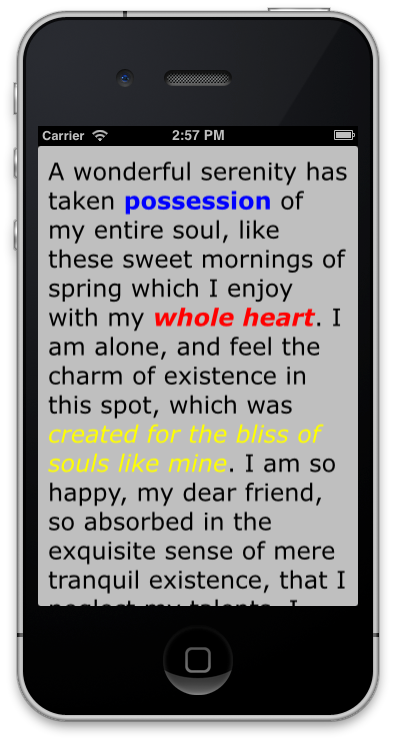
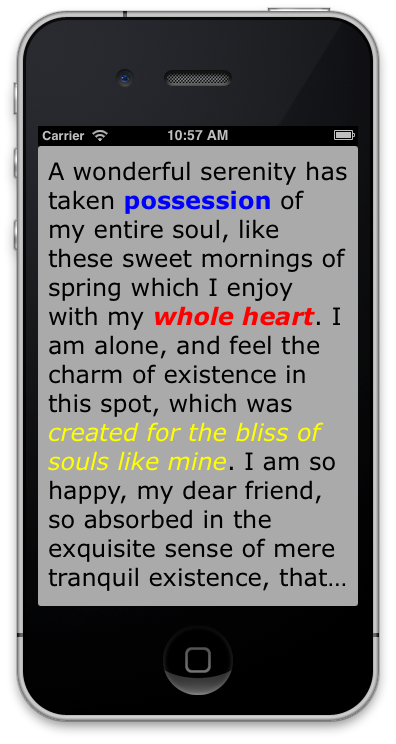
"numberOfLines" and "truncation" (NSLineBreakByTruncatingTail) is now supported

Changed region(s): [[0.1212, 0.2164, 0.8788, 0.8347], [0.4242, 0.1546, 0.5758, 0.1855], [0.8182, 0.3401, 0.8788, 0.371]]

diff --git a/CoreTextLabel.m b/CoreTextLabel.m
@@ -22,8 +22,11 @@
 //
 
 #import "CoreTextLabel.h"
-#import "RegexKitLite.h"
 
+#import <QuartzCore/QuartzCore.h>
+#import <CoreText/CoreText.h>
+
+#import "RegexKitLite.h"
 
 #define CORE_TEXT_SUPPORTED() ([[[UIDevice currentDevice] systemVersion] floatValue] >= 3.2)
 
@@ -37,16 +40,18 @@
 
 @implementation CoreTextLabel
 
+@synthesize string              = _string;
+
 @synthesize font                = _font;
 @synthesize boldFont            = _boldFont;
 @synthesize italicFont          = _italicFont;
 @synthesize boldItalicFont      = _boldItalicFont;
+
 @synthesize textColor           = _textColor;
 @synthesize boldTextColor       = _boldTextColor;
 @synthesize italicTextColor     = _italicTextColor;
 @synthesize boldItalicTextColor = _boldItalicTextColor;
-@synthesize attributedTextLayer = _attributedTextLayer;
-@synthesize attributedString    = _attributedString;
+
 @synthesize defaultFontSize     = _defaultFontSize;
 
 - (id) initWithFrame:(CGRect)frame
@@ -60,25 +65,9 @@
     
 	if (self)
 	{
+        [self setContentMode:UIViewContentModeRedraw];
 		self.backgroundColor = [UIColor clearColor];
-        
-        _defaultFontSize                   = 18.f;
-		_attributedTextLayer               = [CATextLayer new];
-		_attributedTextLayer.frame         = self.bounds;
-		_attributedTextLayer.contentsScale = [[UIScreen mainScreen] scale];
-        
-		[self.layer addSublayer:_attributedTextLayer];
-        
-        self.layer.actions = [[NSMutableDictionary alloc] initWithObjectsAndKeys:
-                              [NSNull null], @"onOrderIn",
-                              [NSNull null], @"onOrderOut",
-                              [NSNull null], @"sublayers",
-                              [NSNull null], @"contents",
-                              [NSNull null], @"bounds",
-                              [NSNull null], @"position",
-                              nil];
-        
-        _attributedTextLayer.actions = self.layer.actions;
+        _defaultFontSize     = 18.f;
 	}
     
 	return self;
@@ -167,57 +156,109 @@
     return _boldItalicTextColor;
 }
 
-#pragma mark - Setter
-
-- (void) setAttributedString:(NSMutableAttributedString *)attributedString
-{
-	_attributedString           = attributedString;
-    _attributedTextLayer.string = _attributedString;
-	[self setNeedsLayout];
-}
-
 #pragma mark - Layout
-
-- (CGSize)suggestSizeAndFitRange:(CFRange *)range forAttributedString:(NSMutableAttributedString *)attrString usingSize:(CGSize)referenceSize
-{
-    CTFramesetterRef framesetter   = CTFramesetterCreateWithAttributedString((__bridge CFAttributedStringRef)attrString);
-    CGSize           suggestedSize = CTFramesetterSuggestFrameSizeWithConstraints(framesetter,
-                                                                                  CFRangeMake(0, [attrString length]),
-                                                                                  NULL,
-                                                                                  referenceSize,
-                                                                                  range);
-    
-    // HACK: There is a bug in Core Text where suggested size is not quite right
-    // I'm padding it with half line height to make up for the bug.
-    // see the coretext-dev list: http://web.archiveorange.com/archive/v/nagQXwVJ6Gzix0veMh09
-    CTLineRef line = CTLineCreateWithAttributedString((__bridge CFAttributedStringRef)attrString);
-    CGFloat ascent, descent, leading;
-    CTLineGetTypographicBounds(line, &ascent, &descent, &leading);
-    CGFloat lineHeight = ascent + descent + leading;
-    suggestedSize.height += lineHeight / 2.f;
-    
-    return suggestedSize;
-}
-
-- (void) layoutSubviews
-{
-    [super layoutSubviews];
-    _attributedTextLayer.frame   = self.bounds;
-    _attributedTextLayer.wrapped = YES;
-}
 
 - (void) sizeToFit
 {
-    CFRange fitRange;
-    CGRect  textDisplayRect = CGRectMake(0, 0, self.bounds.size.width, 99999);
-    CGSize  recommendedSize = [self suggestSizeAndFitRange:&fitRange
-                                       forAttributedString:_attributedString
-                                                 usingSize:textDisplayRect.size];
+    self.frame = CGRectMake(self.frame.origin.x, self.frame.origin.y, self.frame.size.width, 9000);
     
-    self.frame = CGRectMake(self.frame.origin.x, self.frame.origin.y, self.frame.size.width, recommendedSize.height);
+    CTFramesetterRef framesetter     = CTFramesetterCreateWithAttributedString((__bridge CFAttributedStringRef)self.string);
+    CFRange          fullStringRange = CFRangeMake(0, self.string.string.length);
     
-    _attributedTextLayer.frame   = self.bounds;
-    _attributedTextLayer.wrapped = YES;
+    CGMutablePathRef framePath = CGPathCreateMutable();
+    CGPathAddRect(framePath, nil, self.bounds);
+    CTFrameRef aFrame = CTFramesetterCreateFrame(framesetter, fullStringRange, framePath, NULL);
+    
+    CFArrayRef lines = CTFrameGetLines(aFrame);
+    CFIndex    count = CFArrayGetCount(lines);
+    
+    // Limit lines if self.numberOfLines != 0
+    if (self.numberOfLines != 0 && count > self.numberOfLines)
+    {
+        count = self.numberOfLines;
+    }
+    
+    CGPoint origins[count];
+    CTFrameGetLineOrigins(aFrame, CFRangeMake(0, count), origins);
+    
+    CGFloat ascent, descent, leading, width;
+    CTLineRef line = (CTLineRef) CFArrayGetValueAtIndex(lines, count-1);
+    width = CTLineGetTypographicBounds(line, &ascent,  &descent, &leading);
+    
+    self.frame = CGRectMake(self.frame.origin.x, self.frame.origin.y, self.frame.size.width, ceilf(self.bounds.size.height - origins[count-1].y + descent));
+}
+
+- (void) drawRect:(CGRect)rect
+{
+    [super drawRect:rect];
+    
+    // Fetch the context
+	CGContextRef context = UIGraphicsGetCurrentContext();
+    
+	// Flip the coordinate system
+	CGContextSetTextMatrix(context, CGAffineTransformIdentity);
+	CGContextTranslateCTM(context, 0, self.bounds.size.height);
+	CGContextScaleCTM(context, 1.0, -1.0);
+    
+    CTFramesetterRef framesetter = CTFramesetterCreateWithAttributedString((__bridge CFAttributedStringRef)self.string);
+    CFRange fullStringRange = CFRangeMake(0, self.string.string.length);
+    
+    CGMutablePathRef framePath = CGPathCreateMutable();
+    CGPathAddRect(framePath, nil, rect);
+    CTFrameRef aFrame = CTFramesetterCreateFrame(framesetter, fullStringRange, framePath, NULL);
+    
+    CFArrayRef lines = CTFrameGetLines(aFrame);
+    CFIndex    count = CFArrayGetCount(lines);
+    
+    // Limit lines if self.numberOfLines != 0
+    if (self.numberOfLines != 0 && count > self.numberOfLines)
+    {
+        count = self.numberOfLines;
+    }
+    
+    CGPoint origins[count];
+    CTFrameGetLineOrigins(aFrame, CFRangeMake(0, count), origins); // Fill origins[] buffer.
+    
+    // Draw every line but the last one
+    for (CFIndex i = 0; i < count-1; i++)
+    {
+        CGContextSetTextPosition(context, origins[i].x, origins[i].y);
+        CTLineRef line = (CTLineRef)CFArrayGetValueAtIndex(lines, i);
+        CTLineDraw(line, context);
+    }
+    
+    // Truncate the last line before drawing it
+    CGPoint lastOrigin = origins[count-1];
+    CTLineRef lastLine = CFArrayGetValueAtIndex(lines, count-1);
+    
+    // Truncation token is a CTLineRef itself
+    NSRange effectiveRange = NSMakeRange(0, 0);
+    CFAttributedStringRef truncationString = CFAttributedStringCreate(NULL, CFSTR("\u2026"), (__bridge CFDictionaryRef)([self.string attributesAtIndex:0 effectiveRange:&effectiveRange]));
+    CTLineRef truncationToken = CTLineCreateWithAttributedString(truncationString);
+    CFRelease(truncationString);
+    
+    // Range to cover everything from the start of lastLine to the end of the string
+    CFRange rng = CFRangeMake(CTLineGetStringRange(lastLine).location, 0);
+    rng.length = CFAttributedStringGetLength((__bridge CFAttributedStringRef)self.string) - rng.location;
+    
+    // Substring with that range
+    NSAttributedString * longString = [self.string attributedSubstringFromRange:NSMakeRange(rng.location, rng.length)];
+    
+    // Line for that string
+    CTLineRef longLine = CTLineCreateWithAttributedString((__bridge CFAttributedStringRef)longString);
+    
+    CTLineRef truncated = CTLineCreateTruncatedLine(longLine, rect.size.width, kCTLineTruncationEnd, truncationToken);
+    CFRelease(longLine);
+    CFRelease(truncationToken);
+    
+    // If 'truncated' is NULL, then no truncation was required to fit it
+    if (truncated == NULL)
+        truncated = (CTLineRef)CFRetain(lastLine);
+    
+    // Draw new line at the same offset as the non-truncated version
+    CGContextSetTextPosition(context, lastOrigin.x, lastOrigin.y);
+    CTLineDraw(truncated, context);
+    CFRelease(truncated);
 }
 
 #pragma mark - HTML

diff --git a/Sample/CoreTextLabelSample/CoreTextLabelSample/AFViewController.m b/Sample/CoreTextLabelSample/CoreTextLabelSample/AFViewController.m
@@ -26,49 +26,58 @@
 
 @interface AFViewController ()
 
+@property (nonatomic, retain) CoreTextLabel * label;
+
 @end
 
 @implementation AFViewController
 
-- (void) loadView
-{
-    [super loadView];
-    
-    CGFloat padding = 10.f;
-    CGFloat width   = self.view.frame.size.width;
-    CGRect frame    = CGRectMake(padding, padding, width-padding*2.f, 800);
-    
-    UIFont   * regularFont         = [UIFont fontWithName:@"Verdana" size:24.f];
-    UIFont   * boldFont            = [UIFont fontWithName:@"Verdana-Bold" size:24.f];
-    UIFont   * italicFont          = [UIFont fontWithName:@"Verdana-Italic" size:24.f];
-    UIFont   * boldItalicFont      = [UIFont fontWithName:@"Verdana-BoldItalic" size:24.f];
-    
-    UIColor  * boldTextColor       = [UIColor blueColor];
-    UIColor  * boldItalicTextColor = [UIColor redColor];
-    UIColor  * italicTextColor     = [UIColor yellowColor];
-    
-    NSString * htmlPath            = [[NSBundle mainBundle] pathForResource:@"Sample" ofType:@"html"];
-    NSString * htmlString          = [NSString stringWithContentsOfFile:htmlPath
-                                                               encoding:NSUTF8StringEncoding
-                                                                  error:nil];
-    
-    CoreTextLabel * label     = [[CoreTextLabel alloc] initWithFrame:frame];
-    label.font                = regularFont;
-    label.boldFont            = boldFont;
-    label.italicFont          = italicFont;
-    label.boldItalicFont      = boldItalicFont;
-    label.boldTextColor       = boldTextColor;
-    label.boldItalicTextColor = boldItalicTextColor;
-    label.italicTextColor     = italicTextColor;
-    label.attributedString    = [label attributedStringByHTML:htmlString];
-    [label sizeToFit];
-    
-    [self.view addSubview:label];
-}
-
 - (void) viewWillAppear:(BOOL)animated
 {
     [super viewWillAppear:animated];
+    
+    self.view.backgroundColor = [UIColor lightGrayColor];
+    
+    if (!_label)
+    {
+        CGRect frame = CGRectMake(10, 10, self.view.frame.size.width-20, self.view.frame.size.height-20);
+        
+        UIFont   * regularFont         = [UIFont fontWithName:@"Verdana" size:24.f];
+        UIFont   * boldFont            = [UIFont fontWithName:@"Verdana-Bold" size:24.f];
+        UIFont   * italicFont          = [UIFont fontWithName:@"Verdana-Italic" size:24.f];
+        UIFont   * boldItalicFont      = [UIFont fontWithName:@"Verdana-BoldItalic" size:24.f];
+        
+        UIColor  * boldTextColor       = [UIColor blueColor];
+        UIColor  * boldItalicTextColor = [UIColor redColor];
+        UIColor  * italicTextColor     = [UIColor yellowColor];
+        
+        NSString * html                = [NSString stringWithContentsOfFile:[[NSBundle mainBundle] pathForResource:@"Sample" ofType:@"html"]
+                                                                   encoding:NSUTF8StringEncoding
+                                                                      error:nil];
+        
+        _label                     = [[CoreTextLabel alloc] initWithFrame:frame];
+        _label.autoresizingMask    = UIViewAutoresizingFlexibleWidth | UIViewAutoresizingFlexibleHeight | UIViewAutoresizingFlexibleLeftMargin | UIViewAutoresizingFlexibleRightMargin | UIViewAutoresizingFlexibleTopMargin | UIViewAutoresizingFlexibleBottomMargin;
+        _label.font                = regularFont;
+        _label.boldFont            = boldFont;
+        _label.italicFont          = italicFont;
+        _label.boldItalicFont      = boldItalicFont;
+        _label.boldTextColor       = boldTextColor;
+        _label.boldItalicTextColor = boldItalicTextColor;
+        _label.italicTextColor     = italicTextColor;
+        _label.string              = [_label attributedStringByHTML:html];
+        
+        [self.view addSubview:_label];
+    }
+}
+
+- (BOOL) shouldAutorotate
+{
+    return YES;
+}
+
+- (BOOL) shouldAutorotateToInterfaceOrientation:(UIInterfaceOrientation)toInterfaceOrientation
+{
+    return YES;
 }
 
 @end

diff --git a/CoreTextLabel.h b/CoreTextLabel.h
@@ -22,21 +22,24 @@
 //
 
 #import <UIKit/UIKit.h>
-#import <QuartzCore/QuartzCore.h>
-#import <CoreText/CoreText.h>
 
 @interface CoreTextLabel : UIView
+
+@property (nonatomic, retain) NSMutableAttributedString * string;              /**< Default: nil */
 
 @property (nonatomic, retain) UIFont                    * font;                /**< Default: [UIFont systemFontOfSize:] */
 @property (nonatomic, retain) UIFont                    * boldFont;            /**< Default: [UIFont boldSystemFontOfSize:] */
 @property (nonatomic, retain) UIFont                    * italicFont;          /**< Default: [UIFont italicSystemFontOfSize:] */
 @property (nonatomic, retain) UIFont                    * boldItalicFont;      /**< Default: [UIFont italicSystemFontOfSize:] */
+
 @property (nonatomic, retain) UIColor                   * textColor;           /**< Default: [UIColor blackColor] */
 @property (nonatomic, retain) UIColor                   * boldTextColor;       /**< Default: self.textColor */
 @property (nonatomic, retain) UIColor                   * italicTextColor;     /**< Default: self.textColor */
 @property (nonatomic, retain) UIColor                   * boldItalicTextColor; /**< Default: self.textColor */
-@property (nonatomic, retain) NSMutableAttributedString * attributedString;    /**< Default: nil */
+
 @property (nonatomic, assign) CGFloat                     defaultFontSize;     /**< Default font size used if no fonts defined from outside => 18.f */
+
+@property (nonatomic, assign) NSUInteger                  numberOfLines;       /**< Determines the number of lines to draw and what to do when sizeToFit is called. default value is 0 (no limit) */
 
 /**
  * Create NSMutableAttributedString by HTML string
